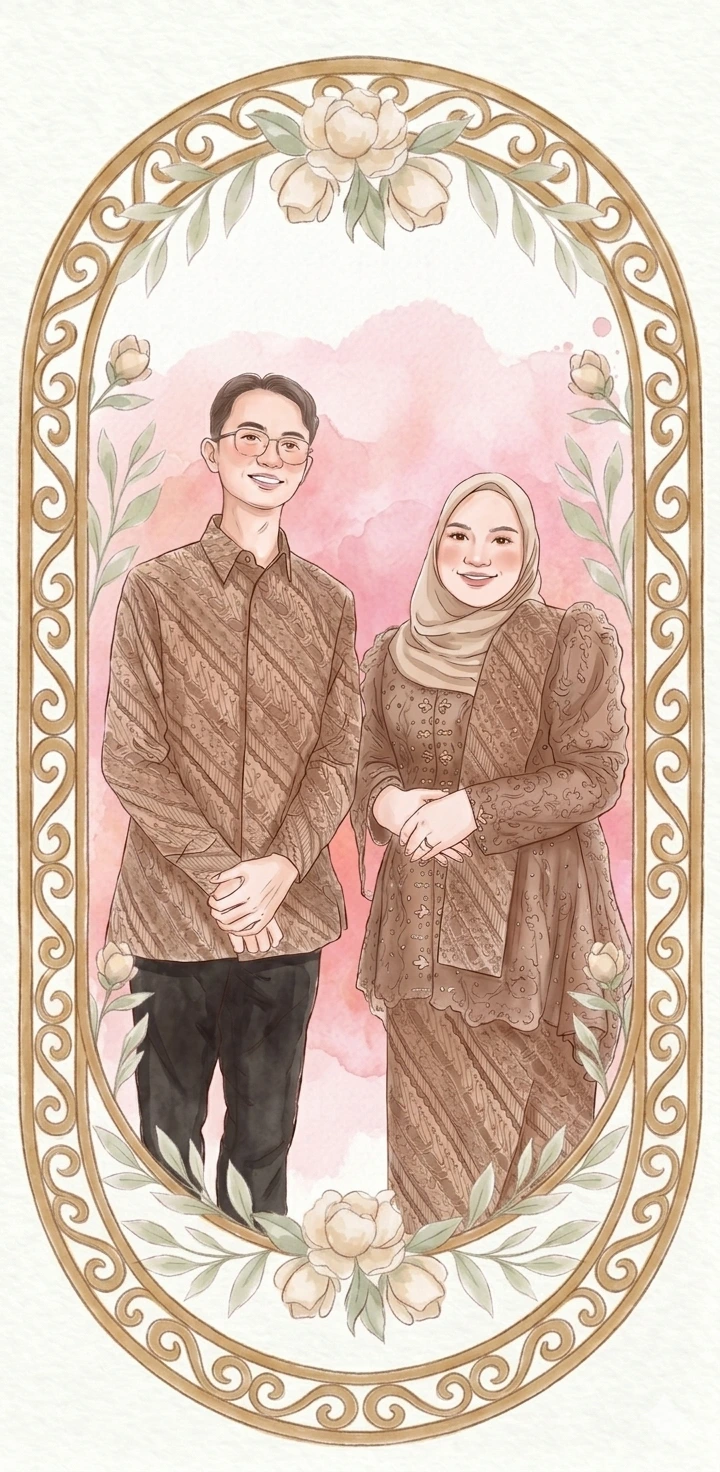
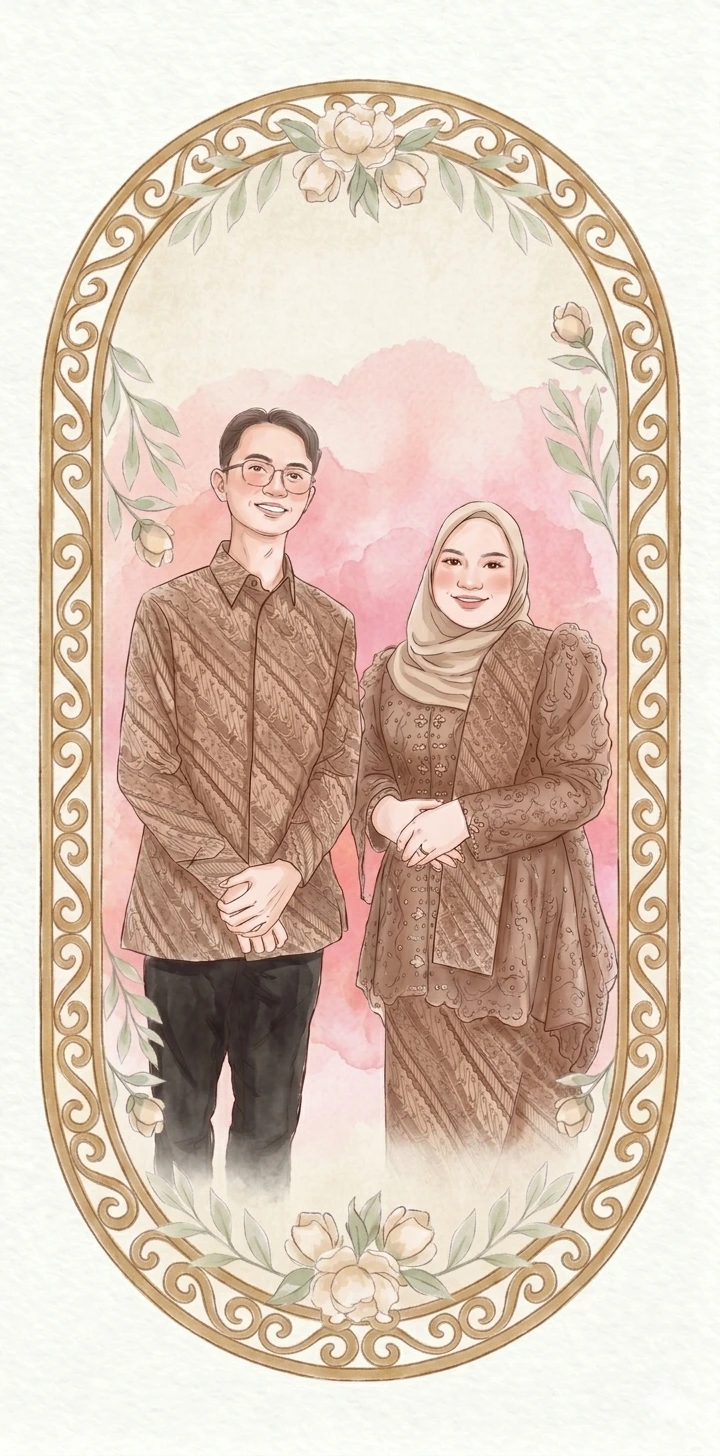
ajoilwqkb a;oc jak laihcasdnDQJ

diff --git a/css/guest.css b/css/guest.css
@@ -119,6 +119,24 @@ html[data-bs-theme="light"] .btn-transparent {
     backdrop-filter: blur(0.2rem);
 }
 
+#welcome .welcome-content,
+#welcome .welcome-content h2,
+#welcome .welcome-content p,
+#welcome .welcome-content #guest-name {
+    color: #5E4512 !important;
+}
+
+#welcome .btn-light {
+    color: #ffffff !important;
+    background-color: #5E4512 !important;
+    border-color: transparent !important;
+    border: none !important;
+}
+
+#welcome .btn-light .fa-solid {
+    color: #ffffff !important;
+}
+
 .welcome-couple-name span {
     display: block;
 }
@@ -180,7 +198,6 @@ section#gift .gift-intro-card,
 section#gift .gift-detail-card,
 section#comment .border.rounded-5.shadow {
     background-color: rgba(255, 255, 255, 0.4) !important;
-    border: 1px solid rgba(115, 17, 17, 0.4) !important;
     color: #731111;
     backdrop-filter: blur(0.15rem);
 }
@@ -298,7 +315,7 @@ html[data-bs-theme="dark"] .bg-white-black {
     width: min(100%, 44rem);
     margin: 0 auto;
     padding: 1.25rem 1.5rem 2rem;
-    color: #F1DFB1;
+    color: #5E4512;
     text-shadow: 0 2px 18px rgba(0, 0, 0, 0.25);
     display: flex;
     flex-direction: column;
@@ -336,26 +353,27 @@ html[data-bs-theme="dark"] .bg-white-black {
 #home .text-secondary,
 #home .mouse-animation,
 #home .mouse-animation .scroll-animation {
-    color: #F1DFB1 !important;
-    border-color: #F1DFB1 !important;
+    color: #5E4512 !important;
+    border-color: #5E4512 !important;
 }
 
 #home .mouse-animation {
-    border-color: #F1DFB1 !important;
+    border-color: #5E4512 !important;
 }
 
 #home .mouse-animation .scroll-animation {
-    background-color: #F1DFB1 !important;
+    background-color: #5E4512 !important;
 }
 
 #home p.text-secondary {
-    color: #F1DFB1 !important;
+    color: #5E4512 !important;
 }
 
 #home .btn-outline-auto {
-    color: #F1DFB1 !important;
-    background-color: transparent !important;
-    border-color: rgba(241, 223, 177, 0.85) !important;
+    color: #ffffff !important;
+    background-color: #5E4512 !important;
+    border-color: transparent !important;
+    border: none !important;
     box-shadow: none !important;
     display: inline-flex !important;
     align-items: center !important;
@@ -369,13 +387,13 @@ html[data-bs-theme="dark"] .bg-white-black {
 #home .btn-outline-auto:hover,
 #home .btn-outline-auto:focus,
 #home .btn-outline-auto:active {
-    color: #F1DFB1 !important;
-    background-color: rgba(241, 223, 177, 0.08) !important;
-    border-color: rgba(241, 223, 177, 1) !important;
+    color: #ffffff !important;
+    background-color: #5E4512 !important;
+    border-color: transparent !important;
 }
 
 #home .btn-outline-auto .fa-solid {
-    color: #F1DFB1 !important;
+    color: #ffffff !important;
     margin-right: 0.5rem;
 }
 

diff --git a/index.html b/index.html
@@ -133,7 +133,7 @@
 
                 <!-- With Love -->
                 <section class="bg-light-dark pt-2 pb-4 position-relative overflow-hidden">
-                    <img src="./assets/images/bg-yellow.webp" alt="bg" class="position-absolute top-0 start-0 bg-cover-home" style="opacity: 1; mask-image: none; width: 100%; height: 100%; object-fit: cover;">
+                    <img src="./assets/images/bg-wl.webp" alt="bg" class="position-absolute top-0 start-0 bg-cover-home" style="opacity: 1; mask-image: none; width: 100%; height: 100%; object-fit: cover;">
                     <div class="container text-center position-relative z-1">
                         <h2 class="font-esthetic pt-2 pb-1 m-0" style="font-size: 2rem; color: #5E4512;">With Love</h2>
 
@@ -171,7 +171,7 @@
                                 <p class="mb-0" style="font-size: 1rem; line-height: 1.15;">Mr. H. Dani Hamdani</p>
                                 <p class="mb-0" style="font-size: 1rem; line-height: 1.15;">and</p>
                                 <p class="mb-0" style="font-size: 1rem; line-height: 1.15;">Mrs. Nining Lestari, A.Md.Keb.</p>
-                                <a href="https://www.instagram.com/aufnaf/" target="_blank" style="color: inherit; text-decoration: none; font-size: 0.85rem; opacity: 0.85; transition: opacity 0.3s;" onmouseover="this.style.opacity='1'" onmouseout="this.style.opacity='0.85'"><i class="fa-brands fa-instagram me-1"></i></a>
+                                <a href="https://www.instagram.com/aufnaf/" target="_blank" style="color: inherit; text-decoration: none; font-size: 1rem; opacity: 0.85; transition: opacity 0.3s;" onmouseover="this.style.opacity='1'" onmouseout="this.style.opacity='0.85'"><i class="fa-brands fa-instagram me-1"></i></a>
                             </div>
 
                             <!-- Love animation -->
@@ -195,11 +195,11 @@
                             <div data-aos="fade-left" data-aos-duration="2000" class="pb-1">
                         <img src="./assets/images/mempelai-pria.webp" alt="cowo" onclick="undangan.guest.modal(this)" class="img-center-crop rounded-circle border border-3 border-light shadow my-3 mx-auto cursor-pointer">
                                 <h2 class="font-esthetic m-0" style="font-size: 2.125rem;">Hafizh Muliarasis, S.T.</h2>
-                                <p class="mt-1 mb-0 fw-bold" style="font-size: 1rem; line-height: 1.15;">the Firstborn of</p>
+                                <p class="mt-1 mb-0 fw-bold" style="font-size: 1rem; line-height: 1.15;">The First-born of</p>
                                 <p class="mb-0" style="font-size: 1rem; line-height: 1.15;">Mr. Agus Mulyana, S.T.</p>
                                 <p class="mb-0" style="font-size: 1rem; line-height: 1.15;">and</p>
                                 <p class="mb-0" style="font-size: 1rem; line-height: 1.15;">Mrs. Lia Siti Suliawati</p>
-                                <a href="https://www.instagram.com/hfzhmul/" target="_blank" style="color: inherit; text-decoration: none; font-size: 0.85rem; opacity: 0.85; transition: opacity 0.3s;" onmouseover="this.style.opacity='1'" onmouseout="this.style.opacity='0.85'"><i class="fa-brands fa-instagram me-1"></i></a>
+                                <a href="https://www.instagram.com/hfzhmul/" target="_blank" style="color: inherit; text-decoration: none; font-size: 1rem; opacity: 0.85; transition: opacity 0.3s;" onmouseover="this.style.opacity='1'" onmouseout="this.style.opacity='0.85'"><i class="fa-brands fa-instagram me-1"></i></a>
                             </div>
 
                             <!-- Love animation -->
@@ -248,11 +248,11 @@
                 <section class="bg-white-black pb-2 wedding-date-section position-relative overflow-hidden shared-story-date-panel" id="wedding-date">
                     <div class="container text-center">
                         <h2 class="font-esthetic py-4 m-0" style="color: #731111;">
-                            <span style="font-size: 1.25rem; display: inline-block;">إِنْ شَاءَ اللّٰهُ</span><br>
-                            <span style="font-size: 1.75rem; font-weight: 700;">Will Be Held at</span>
+                            <span style="font-size: 1.25rem; display: inline-block; padding-bottom: 0.7rem;">إِنْ شَاءَ اللّٰهُ</span><br>
+                            <span style="font-size: 1.75rem; font-weight: 700; display: inline-block; margin-top: 0.7rem;">Will Be Held</span>
                         </h2>
 
-                        <p class="py-2 m-0" style="font-size: 0.95rem; color: #731111;">We would love for you to be part of our special day.<br><br><span class="fw-bold">Saturday, June 6th 2026</span></p>
+                        <p class="py-2 m-0" style="font-size: 0.95rem; color: #731111;">We would love for you to be part of our special day.<br><br>on <span class="fw-bold">Saturday, June 6th 2026</span></p>
 
                         <!-- Love animation -->
                         <div class="position-relative">
@@ -265,7 +265,7 @@
 
                         <div class="overflow-x-hidden">
                             <div class="py-2 mt-3" data-aos="fade-right" data-aos-duration="1500">
-                                <h2 class="font-esthetic m-0 py-2" style="font-size: 2rem; color: #731111;">Ceremony</h2>
+                                <h2 class="font-esthetic m-0 py-2" style="font-size: 2rem; color: #731111;">Akad</h2>
                                 <p style="font-size: 0.95rem; color: #731111;">09.00 AM</p>
                             </div>
 
@@ -280,7 +280,7 @@
                                 <i class="fa-solid fa-location-dot" style="font-size: 1rem; color: #731111;"></i>
                             </div>
                             <small class="d-block my-1 fw-bold" style="font-size: 1.25rem; color: #731111;">Sindang Reret Cikole</small>
-                            <small class="d-block mb-2" style="font-size: 0.85rem; color: #731111;">Jl. Cibedug No.KM 22, Cikole, Kec. Lembang, Kabupaten Bandung Barat, Jawa Barat</small>
+                            <small class="d-block mb-2" style="font-size: 0.85rem; color: #731111;">Cikole, Kec. Lembang, Kabupaten Bandung Barat, Jawa Barat</small>
                             <a href="https://maps.app.goo.gl/jpt9zpA3saPoYuHw6" target="_blank" class="btn btn-sm rounded-pill shadow px-3" style="font-size: 0.85rem; border:none; background-color: #731111; color: white;">See the Location</a>
                         </div>
                     </div>
@@ -468,7 +468,7 @@
 
     <!-- Welcome Page -->
     <div class="loading-page bg-white-black overflow-hidden" id="welcome" style="opacity: 1;">
-        <img src="./assets/images/bg-yellow.webp" alt="welcome background" class="welcome-background-image">
+        <img src="./assets/images/bg.webp" alt="welcome background" class="welcome-background-image">
         <div class="welcome-stage d-flex justify-content-center align-items-center h-100">
             <div class="d-flex flex-column text-center position-relative p-4 welcome-content" style="width: 500px;">
                 <h2 class="font-esthetic mb-4" style="font-size: 2.75rem;">The Wedding of</h2>